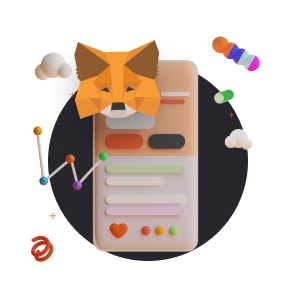
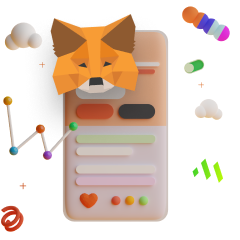
push updates in style things

diff --git a/src/index.html b/src/index.html
@@ -84,10 +84,36 @@
         </div>
       </div>
     </div>
+
+    <!-- need to add if nowhere metamask wallet -->
+
+    <div class="empty-metamask z-60 hidden fixed w-full flex flex-col bg-black">
+      <div class="h-full flex flex-col justify-center">
+        <div class="flex flex-col -mt-20 h-full items-center justify-center text-center">
+          <div class="empty-metamask__img mb-10 mx-auto">
+            <img src="../images/no-metamask.png" class="w-full h-full animate-bounce-3" alt="#">
+          </div>
+          <div class="text-2xl leading-none font-medium text-ford-light mb-5" id="empty-error__msg">
+            It seems that you dont have metamask
+          </div>
+          <div class="max-w-xl text-lg text-faux mx-auto">
+            To continue using Debank, please install MetaMask extension for your
+            browser <a href="https://metamask.io/" class="font-medium underline hover:text-white transition-all"
+              target="_blank">metamask.io</a> or connect mobile wallet
+            with barcode.
+          </div>
+        </div>
+        <div class="mt-auto">
+          @@include('./templates/socials.html')
+        </div>
+      </div>
+    </div>
+
   </main>
 
+  @@include('./templates/notifications-huge.html')
+
   <footer class="w-full mt-auto fixed bottom-0">
-    @@include('./templates/notifications-huge.html')
     @@include('./templates/socials.html')
     @@include('./templates/footer-credit.html')
   </footer>

diff --git a/src/css/entry.scss b/src/css/entry.scss
@@ -49,7 +49,7 @@
     line-height: 1.3;
     text-align: center;
     color: #404047;
-    max-width: 672px;
+    max-width: 468px;
     width: 100%;
     margin-left: auto;
     margin-right: auto;
@@ -75,14 +75,29 @@
   }
 
   &-img {
-    max-width: 320px;
-    width: 100%;
-    max-height: 320px;
-    height: 100%;
+    width: 240px;
+    height: 240px;
+    position: relative;
+    z-index: 2;
+    margin-bottom: 58px;
+
+    &:before {
+      position: absolute;
+      content: '';
+      background: #26262D;
+      width: 200px;
+      height: 200px;
+      border-radius: 50%;
+      left: 20px;
+      bottom: 0px;
+      z-index: 1;
+    }
 
     img {
       width: 100%;
       height: 100%;
+      position: relative;
+      z-index: 2;
     }
   }
 }
@@ -142,4 +157,22 @@
 
 .updating-text {
   max-width: 448px;
+}
+
+.animate-bounce-3 {
+  animation: bounce3 10s ease-in-out infinite;
+}
+
+@keyframes bounce3 {
+  0% {
+    transform: translateY(0);
+  }
+
+  50% {
+    transform: translateY(-10%);
+  }
+
+  100% {
+    transform: translateY(0);
+  }
 }

diff --git a/src/templates/liquidity.html b/src/templates/liquidity.html
@@ -10,11 +10,8 @@
       <div class="flex items-center select-additional__options">
         <select id="link-select" name="link-select" class="color-select">
           <option value="" selected data-href="javascript:void(0)">Go to pool at Pancakeswap</option>
-          <option value="st1" data-href="#3">BNB-ST1</option>
-          <option value="st2" data-href="#2">BNB-ST2</option>
-          <option value="st3" data-href="#2">BNB-ST3</option>
-          <option value="st4" data-href="#2">BNB-ST4</option>
-          <option value="cytr" data-href="#2">BNB-CYTR</option>
+          <option value="st1" data-href="https://exchange.pancakeswap.finance/#/add/BNB/0x51F35073FF7cF54c9e86b7042E59A8cC9709FC46">BNB-ETNA</option>
+          <option value="st2" data-href="https://exchange.pancakeswap.finance/#/add/0xe9e7CEA3DedcA5984780Bafc599bD69ADd087D56/0x51F35073FF7cF54c9e86b7042E59A8cC9709FC46">BUSD-ETNA</option>
         </select>
       </div>
       <div class="btn ml-4" onclick="modal_add_lliquidity.show()">

diff --git a/src/by-invitation.html b/src/by-invitation.html
@@ -26,14 +26,14 @@
   <main class="main">
 
     <div class="main-img">
-      <img src="./images/invitation.png" alt="#">
+      <img src="./images/invitation.png" class="animate-bounce-3" alt="#">
     </div>
     <div class="main-title">
-      Debank is working in 'by invitation" mode.
+      The Future is finally Here
     </div>
     <div class="main-text">
-      Currently Debank is working in 'by invitation" mode. To get invite and whitelist
-      your wallet address please contact <a href="mailto:shola@etna.network">shola@etna.network</a>
+      DeBank is now LIVE! To get Early Access, send wallet
+      address to <a href="mailto:debank@etna.network">debank@etna.network</a>
     </div>
 
   </main>

diff --git a/tailwind.config.js b/tailwind.config.js
@@ -99,7 +99,8 @@ module.exports = {
       'wiggle-3': 'wiggle-3 74s ease-in-out infinite',
       'bounce': 'bounce 48s ease infinite',
       'bounce-2': 'bounceModified 46s ease-in-out infinite',
-      spin: 'spin 1s linear infinite'
+      'bounce-3': 'bounce3 10s ease-in-out infinite',
+      spin: 'spin 1s linear infinite',
     },
     keyframes: {
       spin: {
@@ -123,6 +124,14 @@ module.exports = {
           transform: 'translateY(10%)'
         },
         '50%': {
+          transform: 'translateY(0)'
+        },
+      },
+      bounce3: {
+        '50%': {
+          transform: 'translateY(-10%)'
+        },
+        '0%, 100%': {
           transform: 'translateY(0)'
         },
       },

diff --git a/src/css/styles.scss b/src/css/styles.scss
@@ -1349,6 +1349,10 @@ button:disabled {
 
 .page {
   padding-bottom: 110px;
+
+  &#total-dashboard-tab {
+    padding-bottom: 80px;
+  }
 }
 
 .web3 {
@@ -1370,5 +1374,34 @@ button:disabled {
     .connect {
       display: none;
     }
+  }
+}
+
+.select-additional__options {
+  margin-top: -2px;
+  margin-bottom: -2px;
+}
+
+.empty-metamask {
+  &__img {
+    width: 240px;
+    height: 240px;
+    position: relative;
+    z-index: 2;
+
+    &:before {
+      position: absolute;
+      content: '';
+      background: #26262D;
+      width: 200px;
+      height: 200px;
+      border-radius: 50%;
+      left: 20px;
+      bottom: 0px;
+    }
+  }
+
+  a {
+    color: #898989;
   }
 }

diff --git a/src/js/staticData/parseNotifData.js b/src/js/staticData/parseNotifData.js
@@ -4,16 +4,8 @@ document.addEventListener("DOMContentLoaded", function (event) {
 {  
   "notificationsArr": [
     {
-      "title": "Notification title 111111",
-      "text": "Lorem ipsum dolor sit amet consectetur adipisicing elit oluptatum tenetur."
-    },
-    {
-      "title": "Notification title 222222",
-      "text": "Lorem ipsum dolor sit amet consectetur adipisicing elit oluptatum tenetur."
-    },
-    {
-      "title": "Notification title 33333",
-      "text": "Lorem ipsum dolor sit amet consectetur adipisicing elit oluptatum tenetur."
+      "title": "Welcome to Debank!",
+      "text": ""
     }
   ]
 }

diff --git a/src/update-system.html b/src/update-system.html
@@ -26,7 +26,7 @@
   <main class="main">
 
     <div class="main-img">
-      <img src="./images/updating.png" alt="#">
+      <img src="./images/updating.png" class="animate-bounce-3" alt="#">
     </div>
     <div class="main-title">
       We are updating our system
